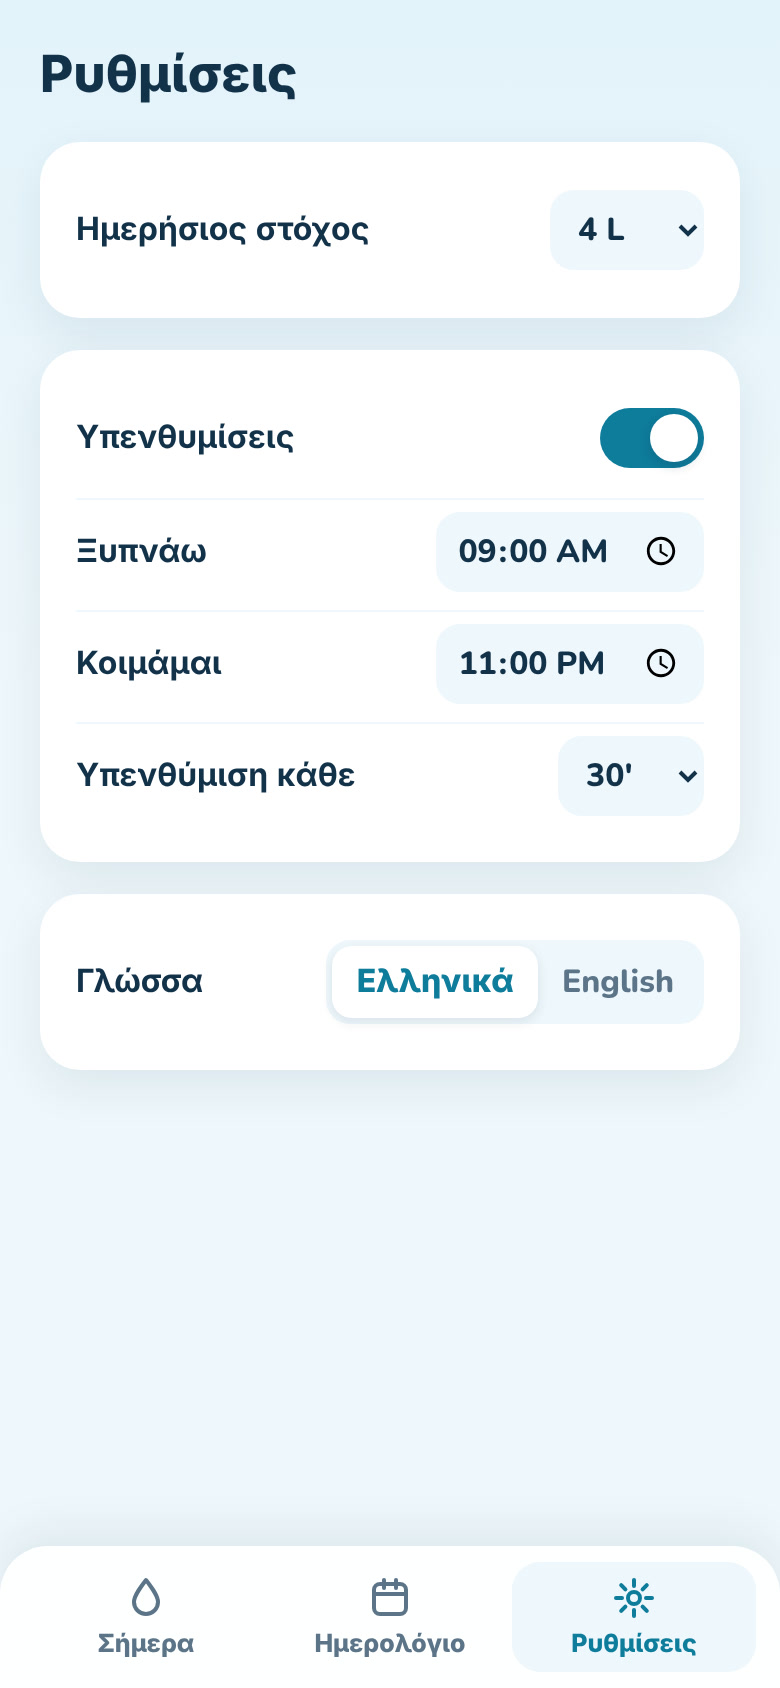
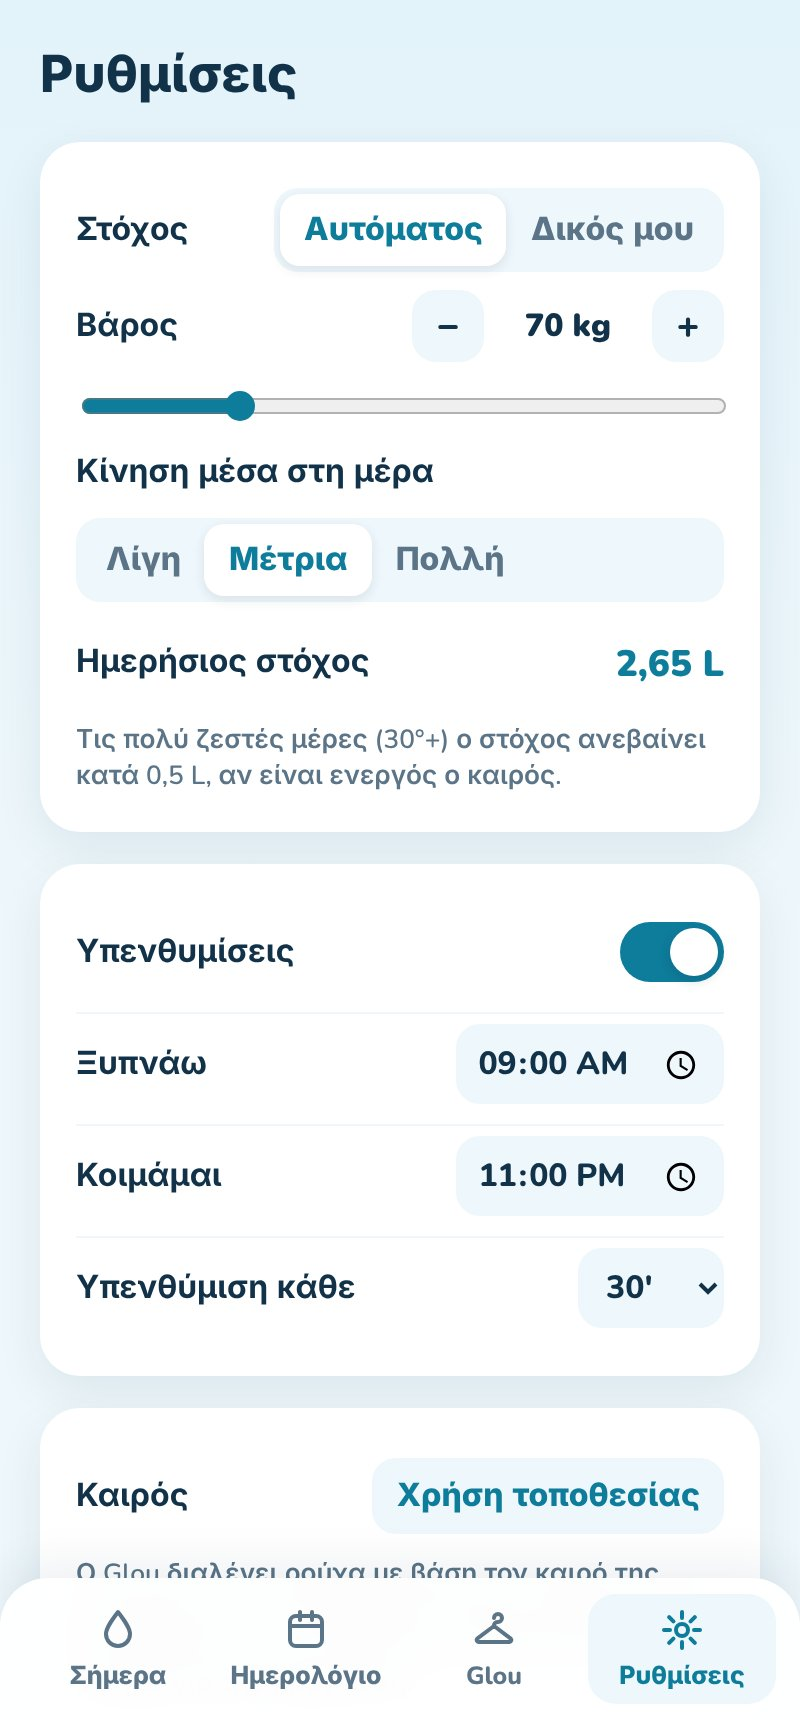
docs: show the wardrobe, the personal goal and the health note

diff --git a/README.md b/README.md
@@ -1,29 +1,34 @@
 # Glou
 
-A water tracker for Android with a mascot, Glou, and reminders that don't nag. Log a glass in one tap, see the day fill up, and keep a streak on the calendar. The app is in Greek and English, and everything stays on your phone.
+A water tracker for Android with a mascot, Glou, and reminders that don't nag. Log a glass in one tap, see the day fill up, and keep a streak on the calendar. Glou dresses for the weather and the holidays. The app is in Greek and English, and your drinks stay on your phone.
 
 <p>
-  <img src="docs/screenshots/today-el.jpg" alt="Today screen in Greek: a water ring at 2 of 4 litres, Glou asking for a sip, quick-add buttons and today's log" width="240">
-  <img src="docs/screenshots/calendar.jpg" alt="Calendar with the current streak and the days that met the goal" width="240">
-  <img src="docs/screenshots/settings.jpg" alt="Settings for the goal, waking hours, reminder interval and language" width="240">
+  <img src="docs/screenshots/today-el.jpg" alt="Today screen in Greek: a water ring at 1.5 of 2.65 litres, Glou in a beret and scarf, quick-add buttons and a tip" width="200">
+  <img src="docs/screenshots/wardrobe.jpg" alt="Glou's wardrobe with the automatic option and outfits to unlock" width="200">
+  <img src="docs/screenshots/onboarding.jpg" alt="First launch: weight and activity give a suggested daily goal, with a health note" width="200">
+  <img src="docs/screenshots/settings.jpg" alt="Settings with the automatic goal and reminders" width="200">
 </p>
 
 ## Features
 
 - **One-tap logging:** 250 ml, 500 ml, or any amount from 50 ml to 2 L, with undo.
-- **Daily goal:** 4 L by default, adjustable from 1.5 L to 5 L.
+- **A goal for you, not for everyone:** on first launch Glou suggests a goal from your weight and how active you are (about 33 ml per kg, plus extra for activity, between 1.5 L and 4.5 L). On days of 30° or more it adds 0.5 L. You can also set your own goal.
 - **Calendar:** each day is marked met or missed, with the current streak and the month's tally.
 - **Glou the mascot:** sleepy in the morning, thirsty when the day runs ahead of you, happy on schedule and proud at the goal. Glou also shares one tip each day.
+- **Glou's wardrobe:** a scarf and beanie in the cold, a raincoat and umbrella in the rain, sunglasses in the sun, and outfits for Christmas, New Year, Halloween, Valentine's and the Greek national days. With your location on, the clothes follow today's forecast; without it, they follow the season.
+- **Outfits to unlock:** nine extra outfits (king, chef, wizard, DJ, superhero, spring, pirate, cowboy, gentleman), each unlocked by watching three short ads. The ad screen is a placeholder for now; real ads will use AdMob.
 - **Reminders that respect you:**
   - only between the hours you wake up and go to bed, every 30 to 120 minutes;
   - quiet for one interval after you drink;
   - off for the rest of the day once you reach the goal;
-  - a "Drank 250 ml" button on the notification itself.
-- **Private:** no account and no server. Your data is kept in the app's storage on the phone.
+  - a "Drank 250 ml" button on the notification that logs the glass without opening the app.
+- **Private:** no account and no server. Your drinks are kept in the app's storage on the phone. If you turn on the weather, only a rounded location is sent to MET Norway to get the forecast.
 
-| Custom amount | In English |
+| Calendar | Custom amount |
 |---|---|
-| <img src="docs/screenshots/custom-amount.jpg" alt="Bottom sheet to choose a custom amount" width="240"> | <img src="docs/screenshots/today-en.jpg" alt="Today screen in English" width="240"> |
+| <img src="docs/screenshots/calendar.jpg" alt="Calendar with the current streak and the days that met the goal" width="240"> | <img src="docs/screenshots/custom-amount.jpg" alt="Bottom sheet to choose a custom amount" width="240"> |
+
+> **Not medical advice.** Glou gives a general estimate. Water needs vary, and people with some health conditions (for example kidney or heart conditions), or who are pregnant or breastfeeding, should follow their doctor's advice.
 
 ## Running it
 
@@ -45,10 +50,11 @@ In Android Studio, pick your phone and press **Run**. Every push to `main` also 
 | Interface | React 19 and Vite |
 | Android app | Capacitor 7 |
 | Storage | Capacitor Preferences |
-| Reminders | Capacitor Local Notifications |
+| Reminders | a small native Android plugin (alarms, notification and the drink button) |
+| Weather | MET Norway Locationforecast |
 | Tests | Vitest |
 
-The reminder plan is a pure function in [`src/reminders/plan.js`](src/reminders/plan.js), so its rules are tested without a phone. The app schedules the plan for the next two days and refreshes it after every drink and every time it comes back to the screen.
+The reminder plan is a pure function in [`src/reminders/plan.js`](src/reminders/plan.js), so its rules are tested without a phone. The app schedules the plan for the next two days and refreshes it after every drink and every time it comes back to the screen. The notifications themselves come from [`android/.../reminders`](android/app/src/main/java/com/nikpar/glou/reminders): when you tap "Drank 250 ml", a receiver writes the drink straight into the app's storage, quiets the next reminders and shows a short confirmation. Outfit rules live in [`src/lib/outfits.js`](src/lib/outfits.js) and the goal in [`src/lib/hydration.js`](src/lib/hydration.js), both with tests.
 
 ## Licence
 
